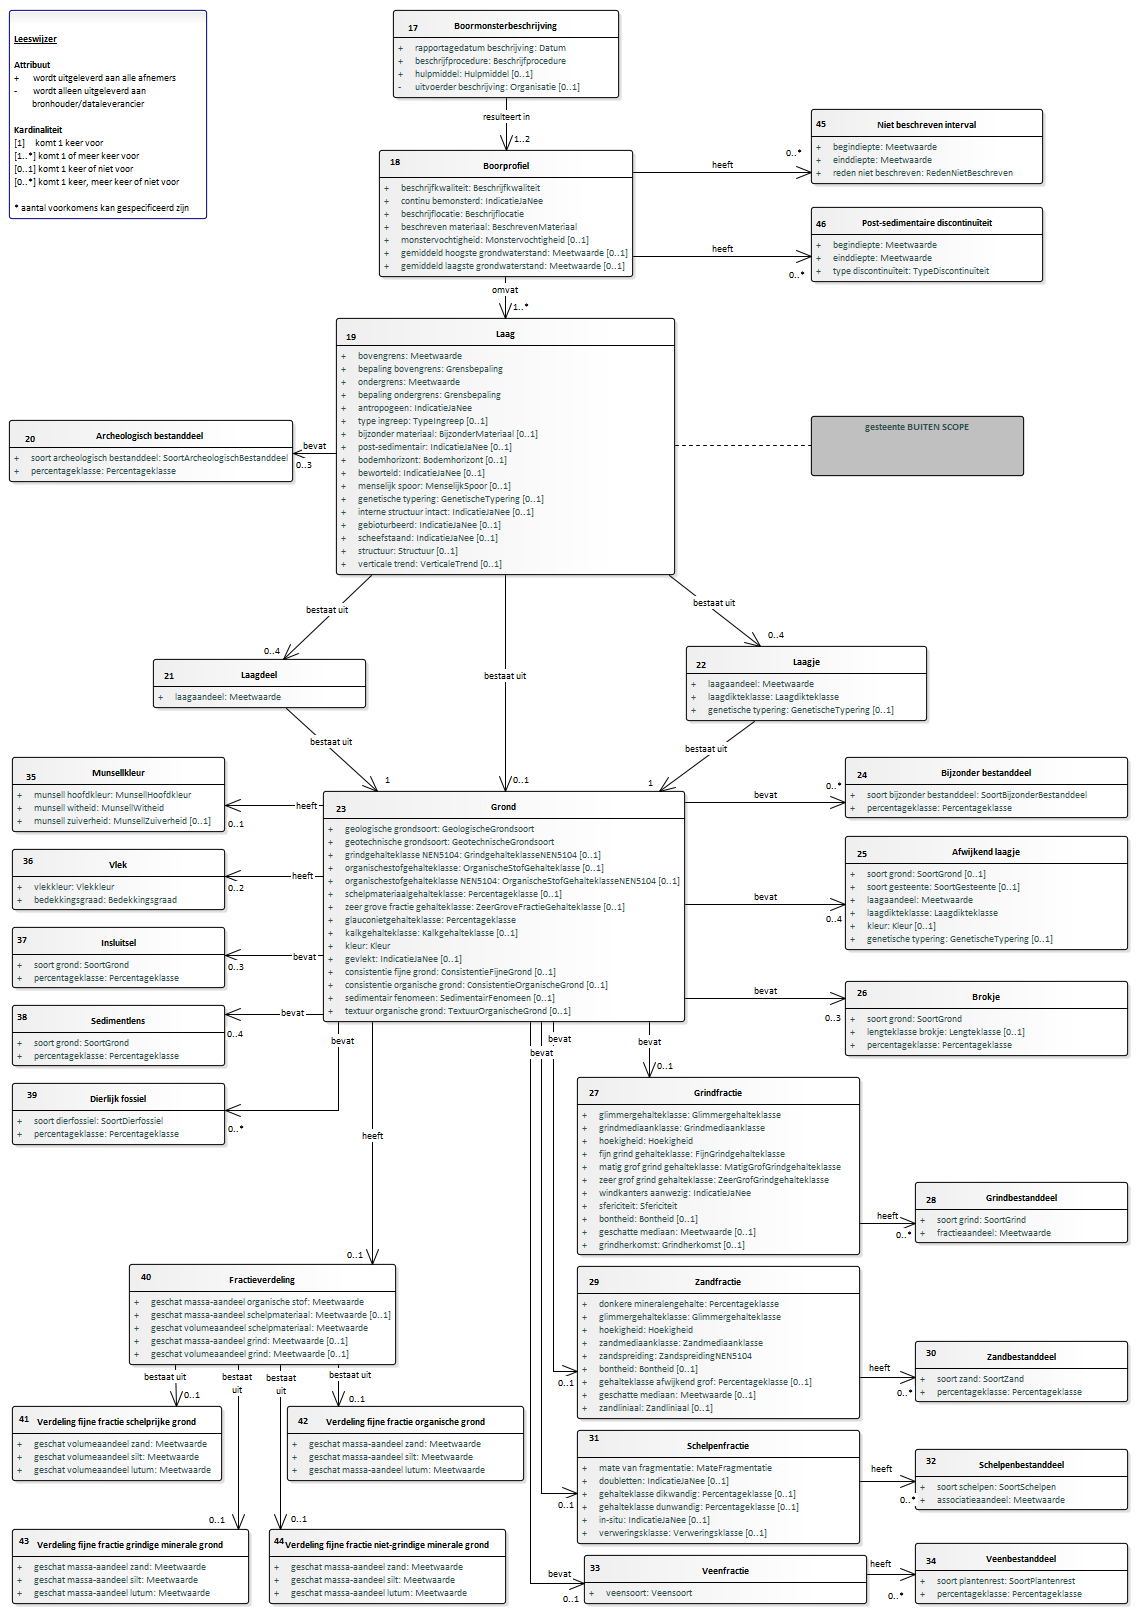
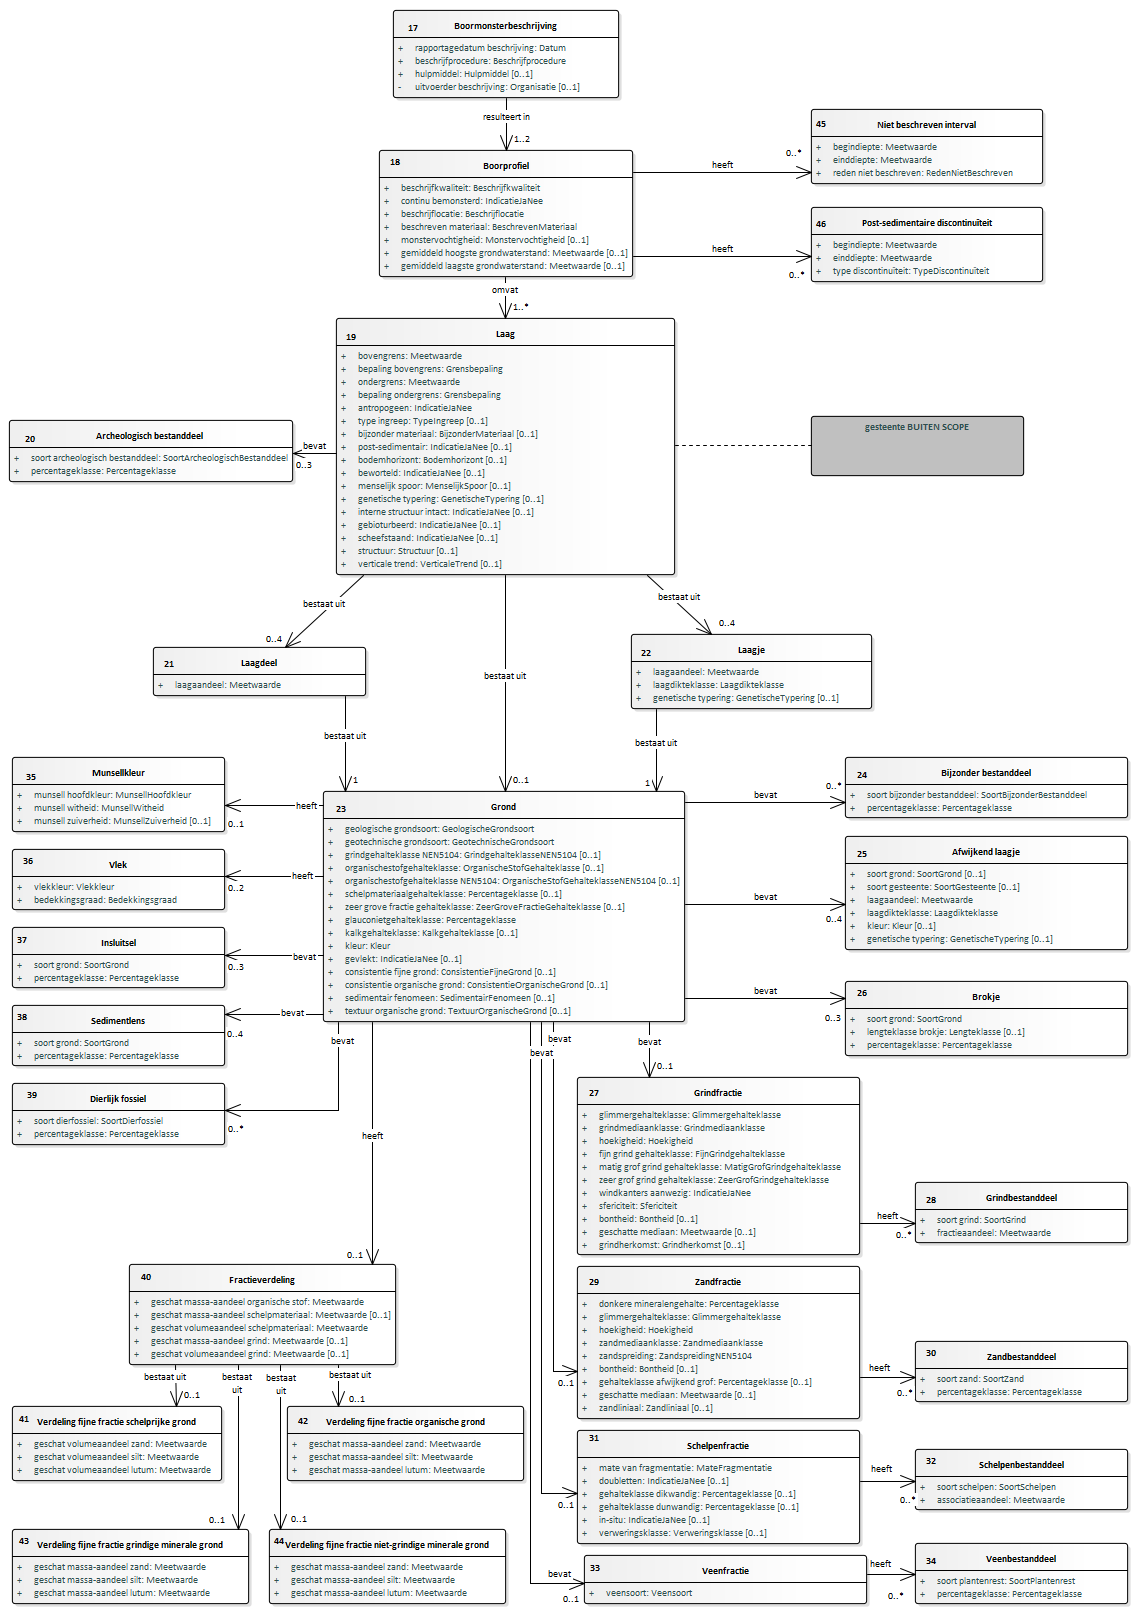
Conceptualmodel-GeologischbooronderzoekBHR-G-0.91-0-20200203-20200206-120900

Changed region(s): [[0.5536, 0.3408, 0.7689, 0.4647], [0.0, 0.0, 0.1538, 0.1549], [0.123, 0.3717, 0.3076, 0.4647]]

diff --git a/data/BHR-G-cat.msword.html b/data/BHR-G-cat.msword.html
@@ -1,7 +1,7 @@
 <html>
    <head>
       <meta http-equiv="Content-Type" content="text/html; charset=UTF-8">
-      <title>Conceptual model/Geologisch booronderzoek (BHR-G)/20190923</title><style>
+      <title>Conceptual model/Geologisch booronderzoek (BHR-G)/20200203</title><style>
                     table tbody tr th,
                     table tbody tr td {text-align: left; vertical-align: top;} 
                     
@@ -11,9 +11,9 @@
                     table.list tbody tr td {border: 1px solid black;}
                 </style></head>
    <body>
-      <p>Conceptual model/Geologisch booronderzoek (BHR-G)/20190923</p>
-      <p>Imvertor: 1.56.2</p>
-      <p>Model release: Conceptualmodel-GeologischbooronderzoekBHR-G-0.9-0-20190923-20191211-170200</p>
+      <p>Conceptual model/Geologisch booronderzoek (BHR-G)/20200203</p>
+      <p>Imvertor: 1.57.1</p>
+      <p>Model release: Conceptualmodel-GeologischbooronderzoekBHR-G-0.91-0-20200203-20200206-120900</p>
       <hr>
       <section>
          <h1>Artikel 1 Definitie van registratieobject, entiteiten en attributen</h1>
@@ -21,7 +21,6 @@
             <h2>Het domeinmodel</h2>
             <section id="">
                <div class="imageinfo overview"><img src="Images/EAID_B03B3DD6_C3FE_48fb_A2E3_66DF26B3775E.png" usemap="#imagemap-EAID_B03B3DD6_C3FE_48fb_A2E3_66DF26B3775E" alt="Diagram het algemeen deel uitgewerkt"><map name="imagemap-EAID_B03B3DD6_C3FE_48fb_A2E3_66DF26B3775E">
-                     <area shape="rect" alt="Registratieobject" coords="288,526,378,596" href="#graph_EAID_7D5218E5_09DB_4350_A161_635C20D3DFBA">
                      <area shape="rect" alt="Boormonsterbeschrijving" coords="11,444,245,506" href="#graph_EAID_D89A831D_A496_41a9_AE6D_57069276AAC1">
                      <area shape="rect" alt="Sliblaag" coords="157,978,460,1066" href="#graph_EAID_6B7C049A_F2ED_4391_AEE5_49B2A387FDDF">
                      <area shape="rect" alt="Terreintoestand" coords="66,849,369,963" href="#graph_EAID_A1ADB2AE_C1B7_46a4_B599_DC0D0AD9F805">
@@ -63,11 +62,11 @@
                      <area shape="rect" alt="Zandfractie" coords="577,1266,860,1419" href="#graph_EAID_F59FA036_0FB6_4102_B548_E3739D0F5337">
                      <area shape="rect" alt="Grindfractie" coords="577,1077,860,1255" href="#graph_EAID_D638B481_2AB7_4cfa_8561_70F7790464B9">
                      <area shape="rect" alt="Afwijkend laagje" coords="845,836,1128,950" href="#graph_EAID_71614E69_2DE8_47f6_BA28_42B91F39124E">
-                     <area shape="rect" alt="Laagje" coords="686,646,927,721" href="#graph_EAID_4EEEBF52_4872_4f50_A22C_1C42EAC70AEA">
+                     <area shape="rect" alt="Laagje" coords="631,634,872,709" href="#graph_EAID_4EEEBF52_4872_4f50_A22C_1C42EAC70AEA">
                      <area shape="rect" alt="Vlek" coords="12,849,225,910" href="#graph_EAID_5684B88C_B0A6_4f15_80B9_F014EC274105">
                      <area shape="rect" alt="Munsellkleur" coords="12,757,225,832" href="#graph_EAID_0FA2E403_645C_4be0_86DA_2B5302628A29">
                      <area shape="rect" alt="Fractieverdeling" coords="129,1264,396,1365" href="#graph_EAID_6986D2AE_EA69_4af6_812A_7C4CA90CCBF2">
-                     <area shape="rect" alt="Laagdeel" coords="153,659,366,708" href="#graph_EAID_DD0E1CDE_BC0D_4800_B824_DC905C0B6959">
+                     <area shape="rect" alt="Laagdeel" coords="153,647,366,696" href="#graph_EAID_DD0E1CDE_BC0D_4800_B824_DC905C0B6959">
                      <area shape="rect" alt="Laag" coords="336,318,675,575" href="#graph_EAID_F9410F95_1E35_49a6_8BB8_D0E18D712643">
                      <area shape="rect" alt="Boorprofiel" coords="379,150,633,277" href="#graph_EAID_2BA8A9AC_A3C1_452a_983C_282727BF9036">
                      <area shape="rect" alt="Boormonsterbeschrijving" coords="393,10,619,98" href="#graph_EAID_D89A831D_A496_41a9_AE6D_57069276AAC1">
@@ -91,6 +90,33 @@
                      <tr>
                         <th>Code</th>
                         <td>BHR-G</td>
+                     </tr>
+                     <tr>
+                        <th>Definitie</th>
+                        <td>
+                           
+                           <p>Het geheel van gegevens dat betrekking heeft op een booronderzoek dat vanuit een bepaalde
+                              opdracht is uitgevoerd door op een bepaald moment op een bepaalde locatie in Nederland
+                              of zijn Exclusieve Economische Zone een boring uit te voeren en de monsters die daarmee
+                              uit de ondergrond zijn verkregen te beschrijven en/of te onderzoeken en/of in het
+                              boorgat zelf metingen aan de ondergrond uit te voeren.
+                           </p>
+                           
+                        </td>
+                     </tr>
+                     <tr>
+                        <th>Populatie</th>
+                        <td>
+                           
+                           <p>De populatie booronderzoeken in de registratie ondergrond omvat alle onderzoeken met
+                              uitzondering van onderzoek dat onder het regime van de Mijnbouwwet valt en onderzoek
+                              dat met het oog op de beoordeling van de bodemmilieukwaliteit of vanuit de archeologie
+                              wordt uitgevoerd. 
+                              De huidige gegevensdefinitie beschrijft alleen het geologisch booronderzoek onder
+                              IMBRO en beperkt zich verder tot de boormonsterbeschrijving van grond.
+                           </p>
+                           
+                        </td>
                      </tr>
                   </tbody>
                </table>
@@ -24083,7 +24109,7 @@
                      <td>
                         
                         <p>Antropogeen bestanddeel: Een antropogeen bestanddeel: minerale verbrandingsresten
-                           met een diameter vergelijkbaar met die van silt en lutum (&lt;63µm), veelal vliegas genoemd.
+                           met een diameter vergelijkbaar met die van silt en lutum (&lt;63μm), veelal vliegas genoemd.
                            De waarde is alleen van toepassing bij de uitgebreide beschrijving.
                         </p>
                         
@@ -28602,7 +28628,7 @@
                      <td>fijn63tot105um</td>
                      <td>
                         
-                        <p>De zandmediaan ligt tussen 63 en 105 µm; klasse onder NEN 5104 en klasse binnen de
+                        <p>De zandmediaan ligt tussen 63 en 105 μm; klasse onder NEN 5104 en klasse binnen de
                            categorie fijn onder NEN-EN-ISO 14688.
                         </p>
                         
@@ -28612,7 +28638,7 @@
                      <td>fijn105tot150um</td>
                      <td>
                         
-                        <p>De zandmediaan ligt tussen 105 en 150 µm; klasse onder NEN5104 en klasse binnen de
+                        <p>De zandmediaan ligt tussen 105 en 150 μm; klasse onder NEN5104 en klasse binnen de
                            categorie fijn onder NEN-EN-ISO 14688.
                         </p>
                         
@@ -28622,7 +28648,7 @@
                      <td>fijn150tot200um</td>
                      <td>
                         
-                        <p>De zandmediaan ligt tussen 150 en 200 µm; klasse binnen de categorie fijn onder NEN-EN-ISO
+                        <p>De zandmediaan ligt tussen 150 en 200 μm; klasse binnen de categorie fijn onder NEN-EN-ISO
                            14688.
                         </p>
                         
@@ -28632,7 +28658,7 @@
                      <td>middelgrof200tot300um</td>
                      <td>
                         
-                        <p>De zandmediaan ligt tussen 200 en 300 µm; klasse binnen de categorie middelgrof onder
+                        <p>De zandmediaan ligt tussen 200 en 300 μm; klasse binnen de categorie middelgrof onder
                            NEN-EN-ISO 14688.
                         </p>
                         
@@ -28642,7 +28668,7 @@
                      <td>middelgrof300tot420um</td>
                      <td>
                         
-                        <p>De zandmediaan ligt tussen 300 en 420 µm; klasse onder NEN 5104 en klasse binnen de
+                        <p>De zandmediaan ligt tussen 300 en 420 μm; klasse onder NEN 5104 en klasse binnen de
                            categorie middelgrof onder NEN-EN-ISO 14688.
                         </p>
                         
@@ -28652,7 +28678,7 @@
                      <td>middelgrof420tot630um</td>
                      <td>
                         
-                        <p>De zandmediaan ligt tussen 420 en 630 µm; klasse binnen de categorie middelgrof onder
+                        <p>De zandmediaan ligt tussen 420 en 630 μm; klasse binnen de categorie middelgrof onder
                            NEN-EN-ISO 14688.
                         </p>
                         
@@ -28662,7 +28688,7 @@
                      <td>grof630tot2000um</td>
                      <td>
                         
-                        <p>De zandmediaan ligt tussen 630 en 2000 µm; klasse onder NEN-EN-ISO 14688.</p>
+                        <p>De zandmediaan ligt tussen 630 en 2000 μm; klasse onder NEN-EN-ISO 14688.</p>
                         
                      </td>
                   </tr>
